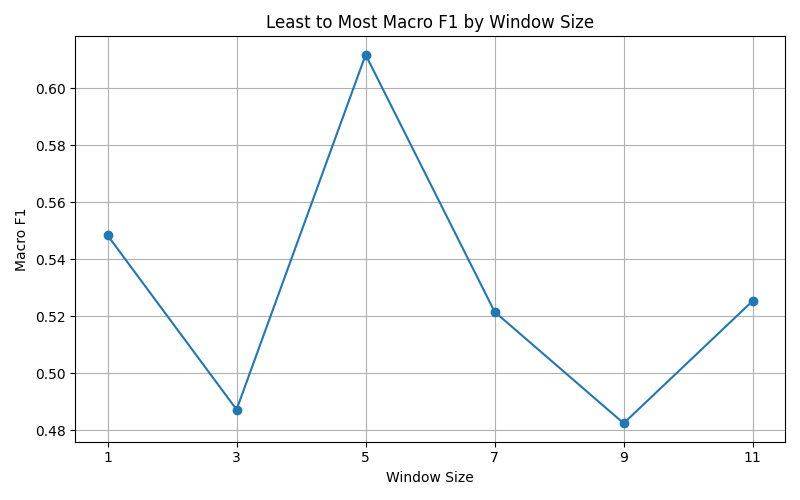
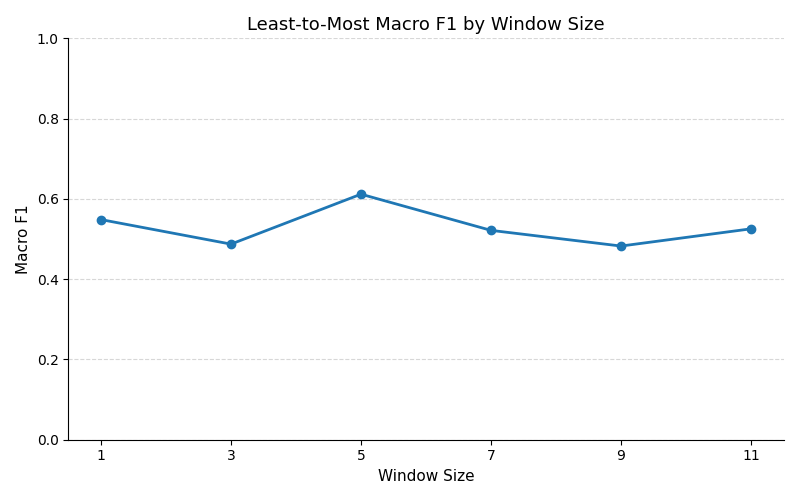
Updated plots

diff --git a/Gemini_Tests/least_to_most/plotting.py b/Gemini_Tests/least_to_most/plotting.py
@@ -3,6 +3,34 @@ import pandas as pd
 import matplotlib.pyplot as plt
 import numpy as np
 
+# Global style settings
+plt.rcParams.update({
+    "font.size": 11,
+    "axes.titlesize": 13,
+    "axes.labelsize": 11,
+    "legend.fontsize": 10,
+    "xtick.labelsize": 10,
+    "ytick.labelsize": 10
+})
+
+def clean_axes(ax):
+    """Remove top/right spines and make grid cleaner."""
+    ax.spines["top"].set_visible(False)
+    ax.spines["right"].set_visible(False)
+    ax.grid(True, axis="y", linestyle="--", alpha=0.5)
+
+
+def annotate_bars(ax):
+    """Add value labels on bars."""
+    for p in ax.patches:
+        height = p.get_height()
+        ax.annotate(f"{height:.2f}",
+                    (p.get_x() + p.get_width() / 2., height),
+                    ha='center', va='bottom',
+                    fontsize=9,
+                    xytext=(0, 3),
+                    textcoords='offset points')
+
 
 BASE_DIR = Path(__file__).resolve().parent
 RESULTS_DIR = BASE_DIR / "results"
@@ -13,39 +41,57 @@ df = pd.read_csv(evaluation_file)
 # keep only window-size rows
 window_df = df[df["metric_group"] == "window_size"].copy()
 
-# accuracy data
+# Accuracy line plot
 accuracy_df = window_df[window_df["metric_name"] == "accuracy"].copy()
 accuracy_df["group_value"] = accuracy_df["group_value"].astype(float).astype(int)
 accuracy_df = accuracy_df.sort_values("group_value")
 
-plt.figure(figsize=(8, 5))
-plt.plot(accuracy_df["group_value"], accuracy_df["metric_value"], marker="o")
-plt.xlabel("Window Size")
-plt.ylabel("Accuracy")
-plt.title("Least to Most Accuracy by Window Size")
-plt.xticks([1, 3, 5, 7, 9, 11])
-plt.grid(True)
+fig, ax = plt.subplots(figsize=(8, 5))
+ax.plot(
+    accuracy_df["group_value"],
+    accuracy_df["metric_value"],
+    marker="o",
+    linewidth=2
+)
+
+ax.set_xlabel("Window Size")
+ax.set_ylabel("Accuracy")
+ax.set_title("Least-to-Most Accuracy by Window Size")
+ax.set_xticks([1, 3, 5, 7, 9, 11])
+ax.set_ylim(0, 1)
+
+clean_axes(ax)
 plt.tight_layout()
 plt.savefig(RESULTS_DIR / "least_to_most_accuracy_by_window.png")
-# plt.show()
 
-# macro f1 data
+
+
+# Macro F1 line plot
 f1_df = window_df[window_df["metric_name"] == "macro_f1"].copy()
 f1_df["group_value"] = f1_df["group_value"].astype(float).astype(int)
 f1_df = f1_df.sort_values("group_value")
 
-plt.figure(figsize=(8, 5))
-plt.plot(f1_df["group_value"], f1_df["metric_value"], marker="o")
-plt.xlabel("Window Size")
-plt.ylabel("Macro F1")
-plt.title("Least to Most Macro F1 by Window Size")
-plt.xticks([1, 3, 5, 7, 9, 11])
-plt.grid(True)
+fig, ax = plt.subplots(figsize=(8, 5))
+ax.plot(
+    f1_df["group_value"],
+    f1_df["metric_value"],
+    marker="o",
+    linewidth=2
+)
+
+ax.set_xlabel("Window Size")
+ax.set_ylabel("Macro F1")
+ax.set_title("Least-to-Most Macro F1 by Window Size")
+ax.set_xticks([1, 3, 5, 7, 9, 11])
+ax.set_ylim(0, 1)
+
+clean_axes(ax)
 plt.tight_layout()
 plt.savefig(RESULTS_DIR / "least_to_most_macro_f1_by_window.png")
-# plt.show()
 
-# grouped bar chart for all metrics by window size
+
+
+# Grouped bar chart (window size)
 window_pivot = window_df.pivot(
     index="group_value",
     columns="metric_name",
@@ -58,44 +104,56 @@ window_pivot = window_pivot.sort_values("group_value")
 x = np.arange(len(window_pivot["group_value"]))
 width = 0.2
 
-plt.figure(figsize=(10, 6))
-plt.bar(x - 1.5 * width, window_pivot["accuracy"], width, label="Accuracy")
-plt.bar(x - 0.5 * width, window_pivot["macro_precision"], width, label="Macro Precision")
-plt.bar(x + 0.5 * width, window_pivot["macro_recall"], width, label="Macro Recall")
-plt.bar(x + 1.5 * width, window_pivot["macro_f1"], width, label="Macro F1")
+fig, ax = plt.subplots(figsize=(10, 6))
 
-plt.xlabel("Window Size")
-plt.ylabel("Metric Value")
-plt.title("Least to Most Metrics by Window Size")
-plt.xticks(x, window_pivot["group_value"])
-plt.ylim(0, 1)
-plt.legend()
-plt.grid(True, axis="y")
+bars1 = ax.bar(x - 1.5 * width, window_pivot["accuracy"], width, label="Accuracy", alpha=0.9)
+bars2 = ax.bar(x - 0.5 * width, window_pivot["macro_precision"], width, label="Macro Precision", alpha=0.9)
+bars3 = ax.bar(x + 0.5 * width, window_pivot["macro_recall"], width, label="Macro Recall", alpha=0.9)
+bars4 = ax.bar(x + 1.5 * width, window_pivot["macro_f1"], width, label="Macro F1", alpha=0.9)
+
+ax.set_xlabel("Window Size")
+ax.set_ylabel("Metric Value")
+ax.set_title("Least-to-Most Metrics by Window Size")
+ax.set_xticks(x)
+ax.set_xticklabels(window_pivot["group_value"])
+ax.set_ylim(0, 1)
+
+clean_axes(ax)
+ax.legend()
+
+annotate_bars(ax)
+
 plt.tight_layout()
 plt.savefig(RESULTS_DIR / "least_to_most_metrics_by_window_bar.png")
-# plt.show()
 
 
-# overall metrics bar chart
+# Overall metrics bar chart
 overall_df = df[df["metric_group"] == "overall"].copy()
 
 metric_order = ["accuracy", "macro_precision", "macro_recall", "macro_f1"]
-overall_df["metric_name"] = pd.Categorical(overall_df["metric_name"], categories=metric_order, ordered=True)
+overall_df["metric_name"] = pd.Categorical(
+    overall_df["metric_name"],
+    categories=metric_order,
+    ordered=True
+)
 overall_df = overall_df.sort_values("metric_name")
 
-plt.figure(figsize=(8, 5))
-plt.bar(overall_df["metric_name"], overall_df["metric_value"])
-plt.xlabel("Metric")
-plt.ylabel("Score")
-plt.title("Least to Most Overall Metrics")
-plt.ylim(0, 1)
-plt.grid(True, axis="y")
+fig, ax = plt.subplots(figsize=(8, 5))
+bars = ax.bar(overall_df["metric_name"], overall_df["metric_value"], alpha=0.9)
+
+ax.set_xlabel("Metric")
+ax.set_ylabel("Score")
+ax.set_title("Least-to-Most Overall Metrics")
+ax.set_ylim(0, 1)
+
+clean_axes(ax)
+annotate_bars(ax)
+
 plt.tight_layout()
 plt.savefig(RESULTS_DIR / "least_to_most_overall_metrics_bar.png")
-# plt.show()
 
 
-# grouped bar chart for all metrics by label
+# Metrics by label
 label_df = df[df["metric_group"] == "label"].copy()
 
 label_pivot = label_df.pivot(
@@ -109,19 +167,24 @@ label_pivot = label_pivot.sort_values("group_value")
 x = np.arange(len(label_pivot["group_value"]))
 width = 0.2
 
-plt.figure(figsize=(12, 6))
-plt.bar(x - 1.5 * width, label_pivot["accuracy"], width, label="Accuracy")
-plt.bar(x - 0.5 * width, label_pivot["macro_precision"], width, label="Macro Precision")
-plt.bar(x + 0.5 * width, label_pivot["macro_recall"], width, label="Macro Recall")
-plt.bar(x + 1.5 * width, label_pivot["macro_f1"], width, label="Macro F1")
+fig, ax = plt.subplots(figsize=(12, 6))
 
-plt.xlabel("Emotion Label")
-plt.ylabel("Metric Value")
-plt.title("Least to Most Metrics by Emotion Label")
-plt.xticks(x, label_pivot["group_value"], rotation=45)
-plt.ylim(0, 1)
-plt.legend()
-plt.grid(True, axis="y")
+bars1 = ax.bar(x - 1.5 * width, label_pivot["accuracy"], width, label="Accuracy", alpha=0.9)
+bars2 = ax.bar(x - 0.5 * width, label_pivot["macro_precision"], width, label="Macro Precision", alpha=0.9)
+bars3 = ax.bar(x + 0.5 * width, label_pivot["macro_recall"], width, label="Macro Recall", alpha=0.9)
+bars4 = ax.bar(x + 1.5 * width, label_pivot["macro_f1"], width, label="Macro F1", alpha=0.9)
+
+ax.set_xlabel("Emotion Label")
+ax.set_ylabel("Metric Value")
+ax.set_title("Least-to-Most Metrics by Emotion Label")
+ax.set_xticks(x)
+ax.set_xticklabels(label_pivot["group_value"], rotation=45)
+ax.set_ylim(0, 1)
+
+clean_axes(ax)
+ax.legend()
+
 plt.tight_layout()
 plt.savefig(RESULTS_DIR / "least_to_most_metrics_by_label_bar.png")
+
 plt.show()
